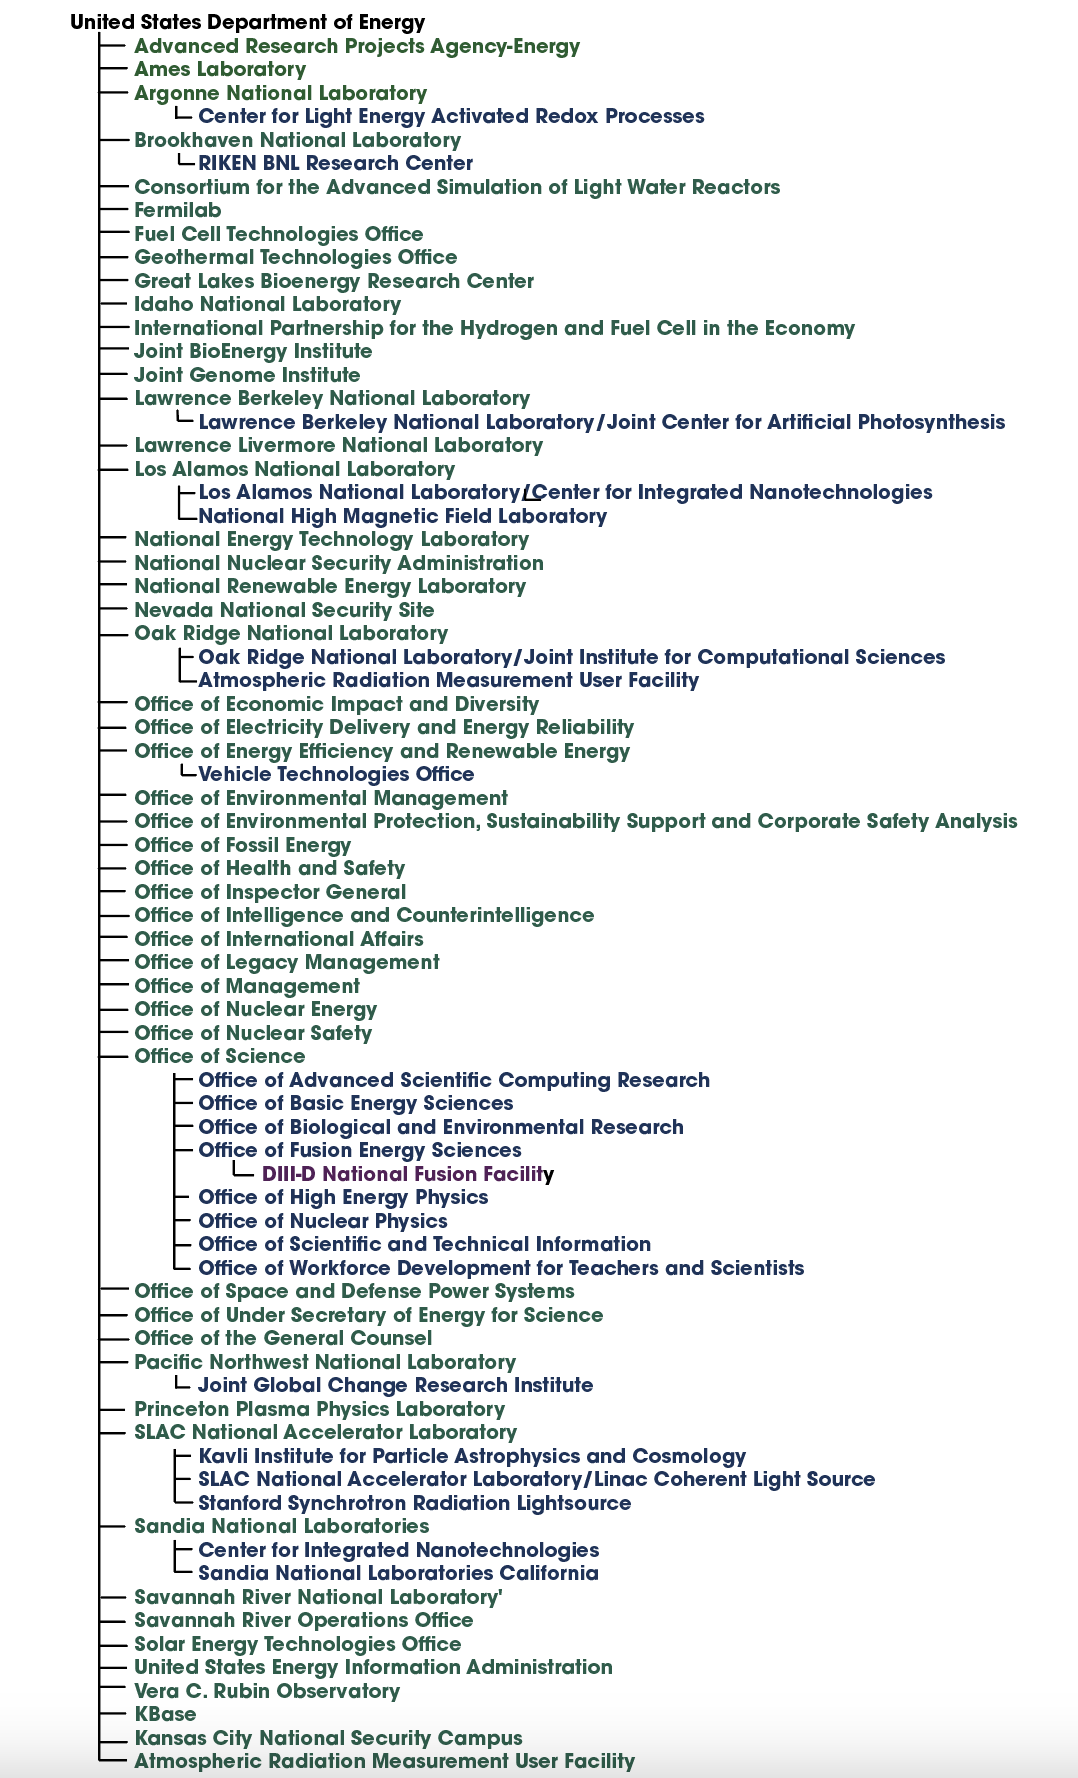
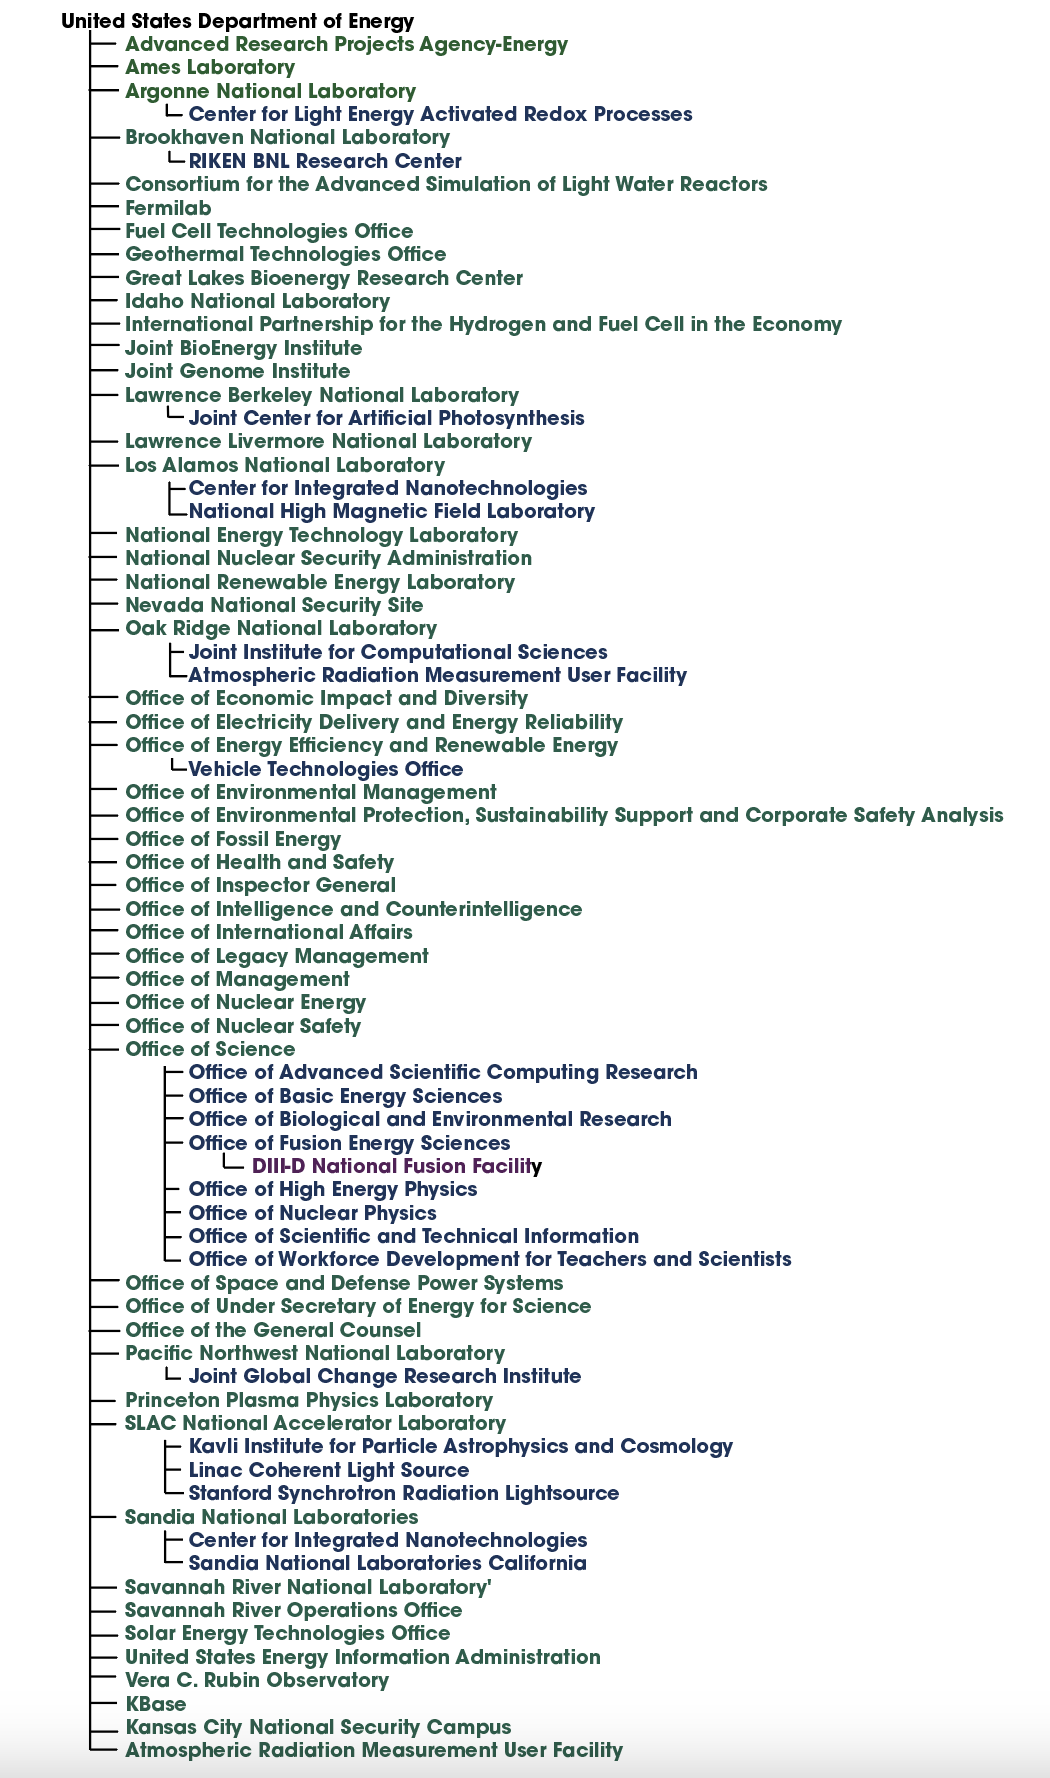
Corrects DOE hierarchy image and other tweaks

Changed region(s): [[0.061, 0.0, 0.9448, 1.0], [0.701, 0.3403, 0.7619, 0.3712], [0.7924, 0.3403, 0.8229, 0.3712]]

diff --git a/content/blog/2023-02-27-parents-children-and-other-relationships-in-ror.md b/content/blog/2023-02-27-parents-children-and-other-relationships-in-ror.md
@@ -16,15 +16,13 @@ One common question we receive about ROR registry records is whether they reflec
 
 ## Relationships in ROR at a glance
 
-The ROR registry currently includes records for nearly 105,000 organizations (to be precise, 104,594 at the time of this writing). In approximately 21% of these records (22,057) there is at least one relationship to another organization in the registry. Several national-level and large-scale research organizations, such as the Czech Academy of Sciences ([https://ror.org/053avzc18](https://ror.org/053avzc18)), have more than 100 of their child organizations enumerated in ROR. 
-
-**Across the entire ROR dataset, there are more than 22,000 total relationships between organizations.** Parent-child hierarchies are the most common relationship type, with more than 17,000 instances. The most common scenario is that an organization has only one parent, but in some cases an organization has multiple parents (1,891 organizations, or about 1.8% of total records, have multiple parents).
+The ROR registry currently includes records for nearly 105,000 organizations (to be precise, 104,594 at the time of this writing). Across the entire ROR dataset, there are more than 22,000 total relationships between organizations (22,057), which means that **approximately 21% of ROR records have at least one relationship to another record in the registry**. Parent-child hierarchies are the most common relationship type, with more than 17,000 instances. The most common scenario is that an organization has only one parent, but in some cases an organization has multiple parents (1,891 organizations, or about 1.8% of total records, have multiple parents). Several national-level and large-scale research organizations, such as the Czech Academy of Sciences ([https://ror.org/053avzc18](https://ror.org/053avzc18)), have more than 100 of their child organizations enumerated in ROR. 
 
 Since its [first independent release](https://ror.org/blog/2022-03-17-first-independent-release/) in March 2022 as part of the planned divergence from GRID, ROR has created over 1,000 new relationships between research organizations in the registry. We do this in collaboration with the global research community through our [transparent curation process](https://github.com/ror-community/ror-updates#ror-updates), and this service is entirely free of charge.
 
 ## Relationships in the ROR data structure
 
-ROR records store both structural and temporal connections in the `<relationships>` field. Connections and relationships between records can therefore be mapped and graphed. The relationship types supported are `Parent`, `Child`, `Related`, `Successor`, and `Predecessor`. An organization can have multiple relationships, but each relationship must be classified as only one of the above types. 
+ROR records store both structural and temporal connections in the `relationships` field. Connections and relationships between records can therefore be mapped and graphed. The relationship types supported are `Parent`, `Child`, `Related`, `Successor`, and `Predecessor`. An organization can have multiple relationships, but each relationship must be classified as only one of the above types. 
 
 The United States Department of Energy, for instance (<https://ror.org/01bj3aw27>), has many "child" organizations such as national research laboratories. Those child organizations themselves often have their own children representing different research units and funding bodies. Pictured below is a vertical "family tree" of the Department of Energy created from ROR records with an [organization tree script](https://github.com/ror-community/ror-utilities/tree/main/organization-tree-scripts) showing DOE's children and grandchildren (laterally related organizations are not shown in this view). This structure aligns with how the Department of Energy tracks both its research outputs and the research projects it has supported using ROR IDs and [Crossref Funder Registry IDs](https://www.crossref.org/services/funder-registry/). 
 
@@ -66,7 +64,7 @@ ROR users can and do take advantage of relationships and hierarchies in ROR for 
 
 - **Publishers want to manage institution-level subscriptions and Open Access agreements, each of which may include or exclude particular institutional subdivisions.**
 
-One example of a system that has cleverly integrated ROR to enable finding research outputs both from a single organization and from related organizations is [The Lens](https://lens.org), which offers large-scale search of patents and scholarly works. In December of 2022, The Lens [announced](https://about.lens.org/release-8-7/) that it had added a new ROR-based feature: a field in its structured search called "Institution ROR ID Lineage" that lets a user find all the scholarly works associated with an organization's ROR ID plus all the scholarly works associated with that organization's children. The Lens was already using ROR in its institutional data model, but this fascinating new feature shows an appreciation of what ROR's relationships field can do. Searching by the ROR ID for the University of London (https://ror.org/04cw6st05) alone produces just over 98,000 results, whereas searching by the ROR ID lineage for the University of London produces over 780,000 results from the University London and all of its 21 children.
+One example of a system that has cleverly integrated ROR to enable finding research outputs both from a single organization and from related organizations is [The Lens](https://lens.org), which offers large-scale search of patents and scholarly works. In December of 2022, The Lens [announced](https://about.lens.org/release-8-7/) that it had added a new ROR-based feature: a field in its structured search called "Institution ROR ID Lineage" that lets a user find all the scholarly works associated with an organization's ROR ID plus all the scholarly works associated with that organization's children. The Lens was already using ROR in its institutional data model, but this fascinating new feature shows an appreciation of what ROR's relationships field can do. Searching by the ROR ID for the University of London (https://ror.org/04cw6st05) alone produces just over 98,000 results, whereas searching by the ROR ID lineage for the University of London produces over 780,000 results from the University of London and all of its 21 children.
 
 {{< figure src="/img/blog/hierarchies/ror-lens-ulondon.jpg" alt="The Lens's structured search for scholarly works by ROR ID showing over 98,000 works associated with the University of London alone. " caption="The Lens's structured search for scholarly works by ROR ID showing over 98,000 works associated with the University of London alone." >}} 
 

diff --git a/content/blog/2023-02-23-caltech-case-study.md b/content/blog/2023-02-23-caltech-case-study.md
@@ -146,7 +146,7 @@ Yeah. In terms of the thesis repository, it's allowed Caltech to be much more vi
 
 {{< figure src="/img/blog/caltech/datacite-caltech.png" class="blog-figure" alt="Screenshot of the results page for Caltech on DataCite Commons showing the first three of a total nearly 42,000 works filterable by publication year, work type, license, language, field of science, and registration agency, with the first two results being datasets and the third being a dissertation" caption="ROR-powered Caltech organization page on DataCite Commons at [https://commons.datacite.org/ror.org/05dxps055](https://commons.datacite.org/ror.org/05dxps055).">}} 
 
-In terms of the data repository, we're still figuring out where it's going to be useful in terms of reporting and cleanliness. One of the areas where it's going to be very helpful is in terms of funders. **At the moment we don't have to do a ton of reporting back to the funders to say what datasets were associated with a given grant, but we're anticipating that we're going to have to do that in the next few years, so having the ability to pull out exactly what records are associated with a given funder is going to be very important. We have it in the system now, so instead of just having people type in the text and the different variations of "National Institutes of Health" or "National Science Foundation," instead, you have them type it in, it assigns the ROR to it, and then we'll be able to pull records out via the ROR.** We don't have as many specific use cases where we can say, "Yes, this the reporting we're using this for today," but we're anticipating it's going to be really, really helpful, because there [probably will be more compliance reporting we have to do](https://www.whitehouse.gov/ostp/news-updates/2022/08/25/ostp-issues-guidance-to-make-federally-funded-research-freely-available-without-delay/). 
+In terms of the data repository, we're still figuring out where it's going to be useful in terms of reporting and cleanliness. One of the areas where it's going to be very helpful is in terms of funders. **At the moment we don't have to do a ton of reporting back to the funders to say what datasets were associated with a given grant, but we're anticipating that we're going to have to do that in the next few years, so having the ability to pull out exactly what records are associated with a given funder is going to be very important. We have it in the system now, so instead of just having people type in the text and the different variations of "National Institutes of Health" or "National Science Foundation," instead, you have them type it in, it assigns the ROR to it, and then we'll be able to pull records out via the ROR.** We don't have as many specific use cases where we can say, "Yes, this is the reporting we're using this for today," but we're anticipating it's going to be really, really helpful, because there [probably will be more compliance reporting we have to do](https://www.whitehouse.gov/ostp/news-updates/2022/08/25/ostp-issues-guidance-to-make-federally-funded-research-freely-available-without-delay/). 
 
 ### {{< figure src="/img/amanda-sq-100.png" class="round-figure" alt="Amanda French" >}} Amanda French
 Great. So what problems have you identified with ROR, if any? What do you wish ROR did that it isn't currently doing? 
